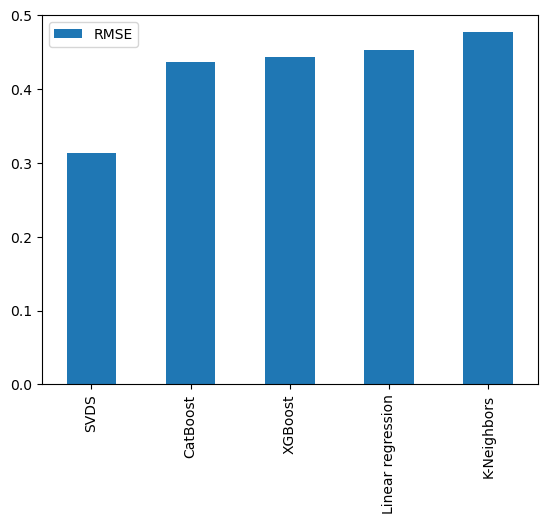
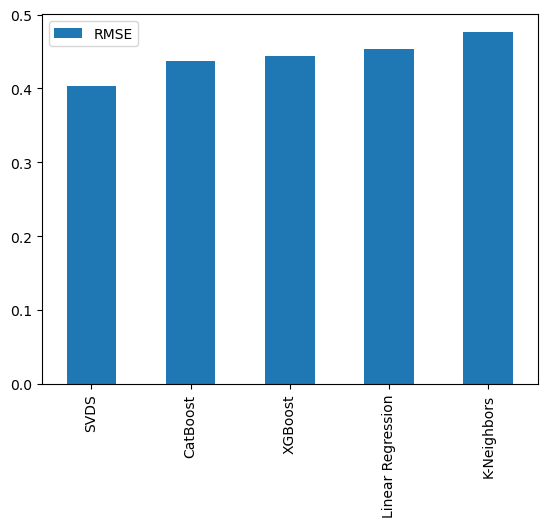
Experiments

diff --git a/EXPERIMENTS.md b/EXPERIMENTS.md
@@ -41,9 +41,21 @@ RMSE = sqrt(1/n * sum((y_pred - y_true)^2))
 ---
 
 ## SVDS
+
+Изначально я допустил ошибку в подготовке матрицы и заполнил отсутствующие значения нулями, это фактически означало то, что пользователю элемент не понравился и получил негативную оценку, а не отсутствие оценки вовсе.
+Результаты вышли отличные.
+
 / | Фильмы | Книги | Треки
 --- | --- | --- | ---
 RMSE | 0.36 | 0.29 | 0.29
+Время с. | 103 | 15 | 125
+
+
+После корректировки ситуация изменилась
+
+/ | Фильмы | Книги | Треки
+--- | --- | --- | ---
+RMSE | 0.39 | 0.45 | 0.37
 Время с. | 103 | 15 | 125
 
 
